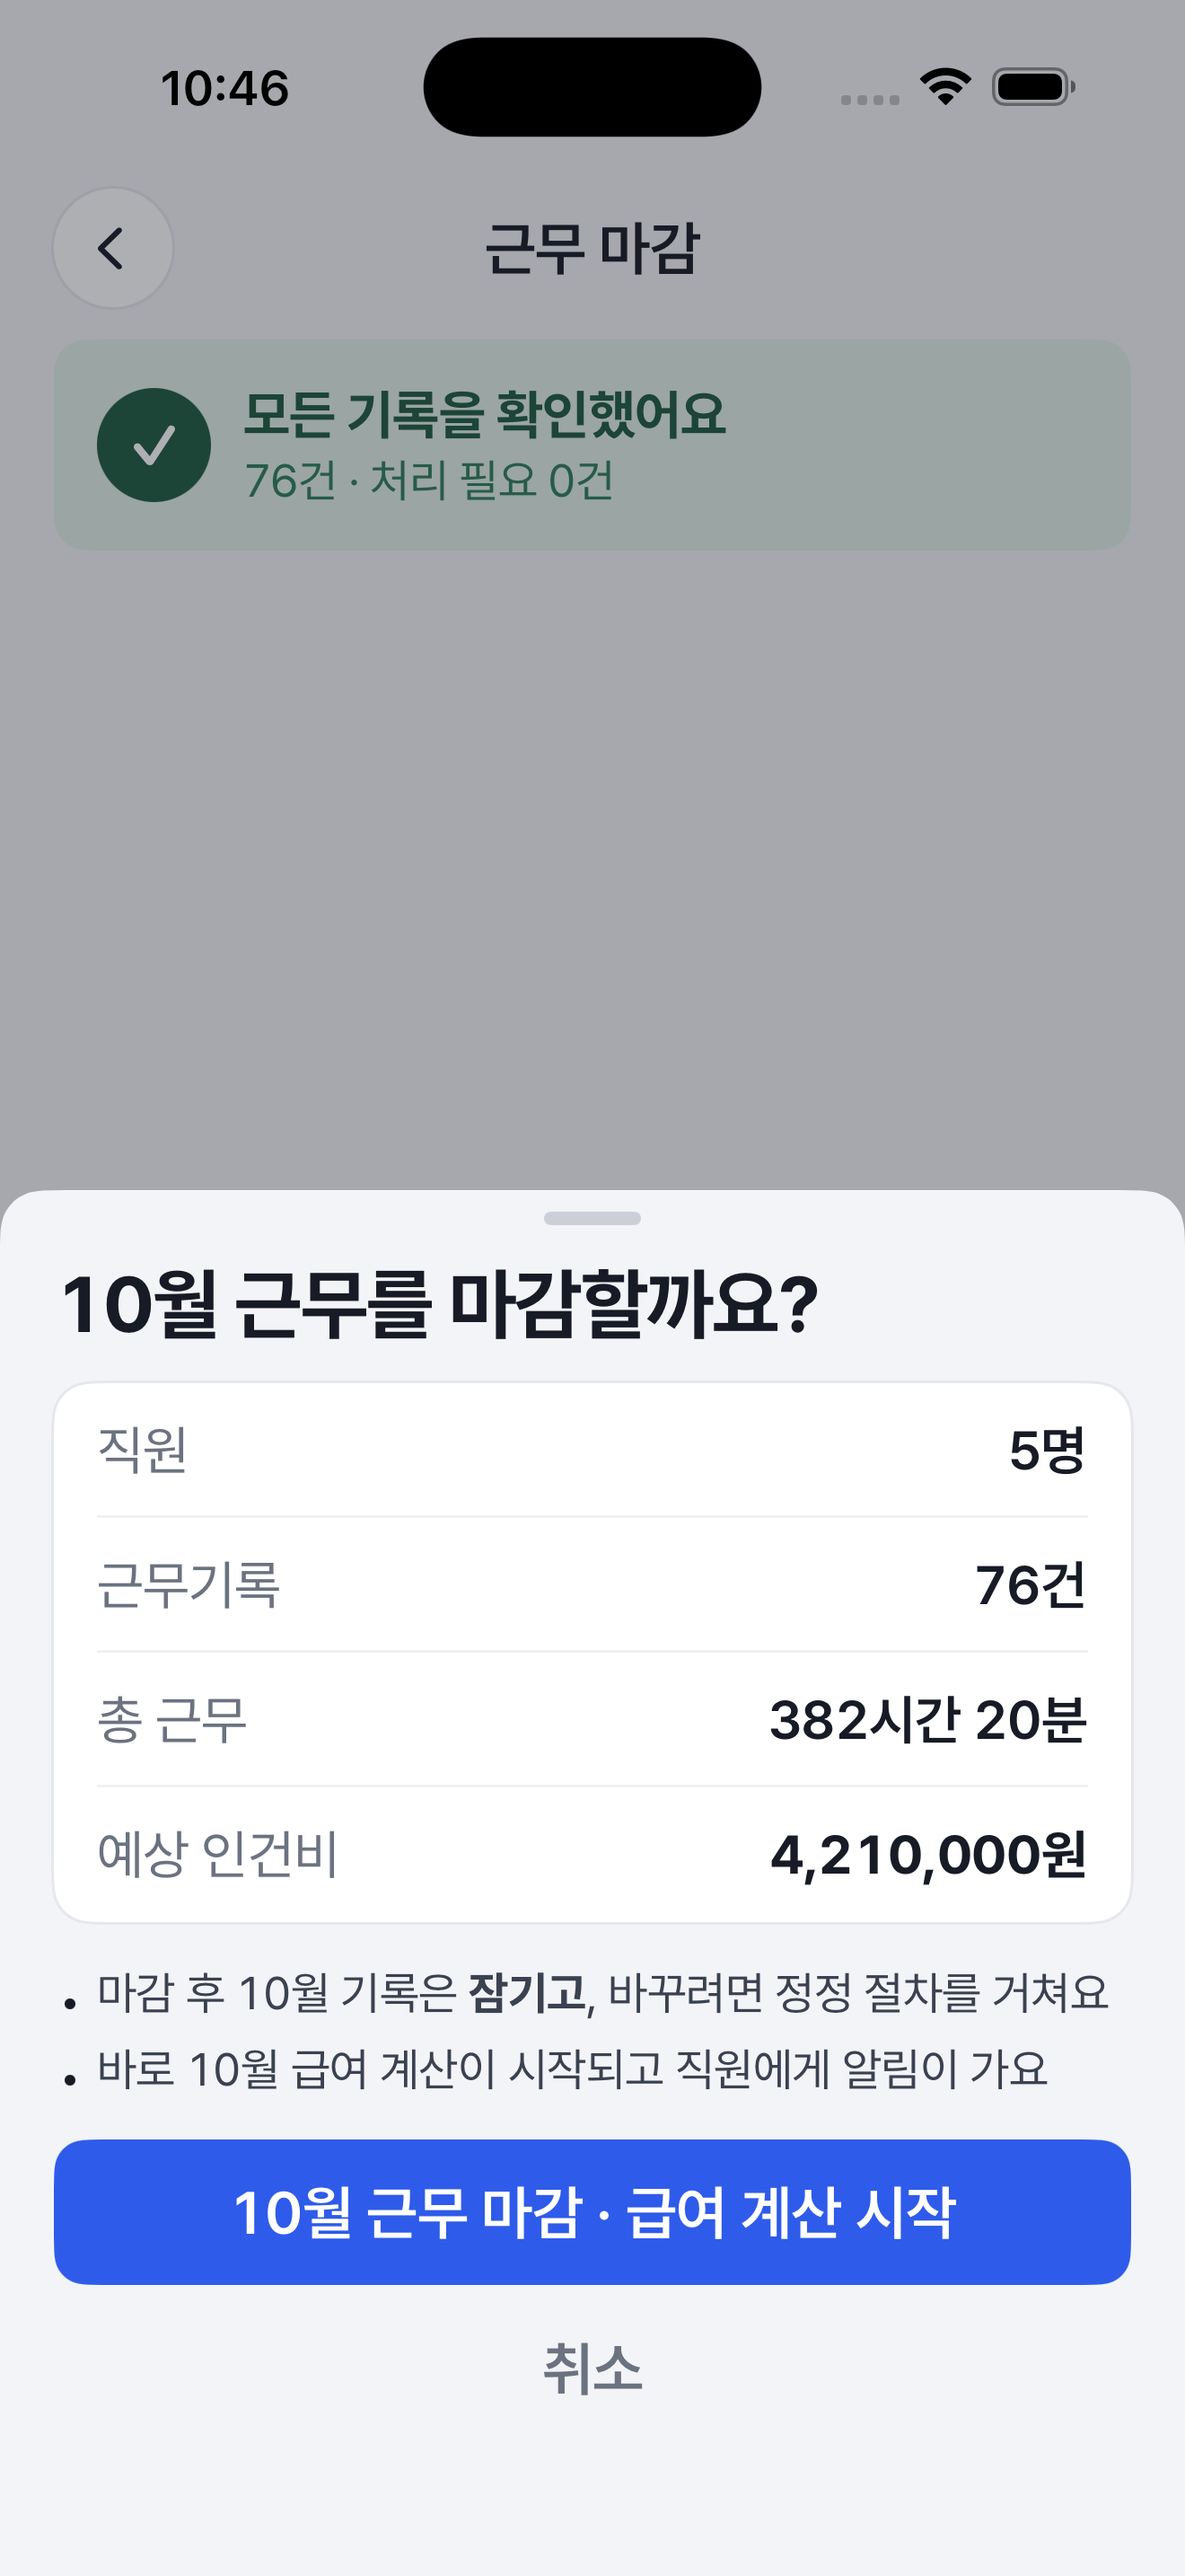
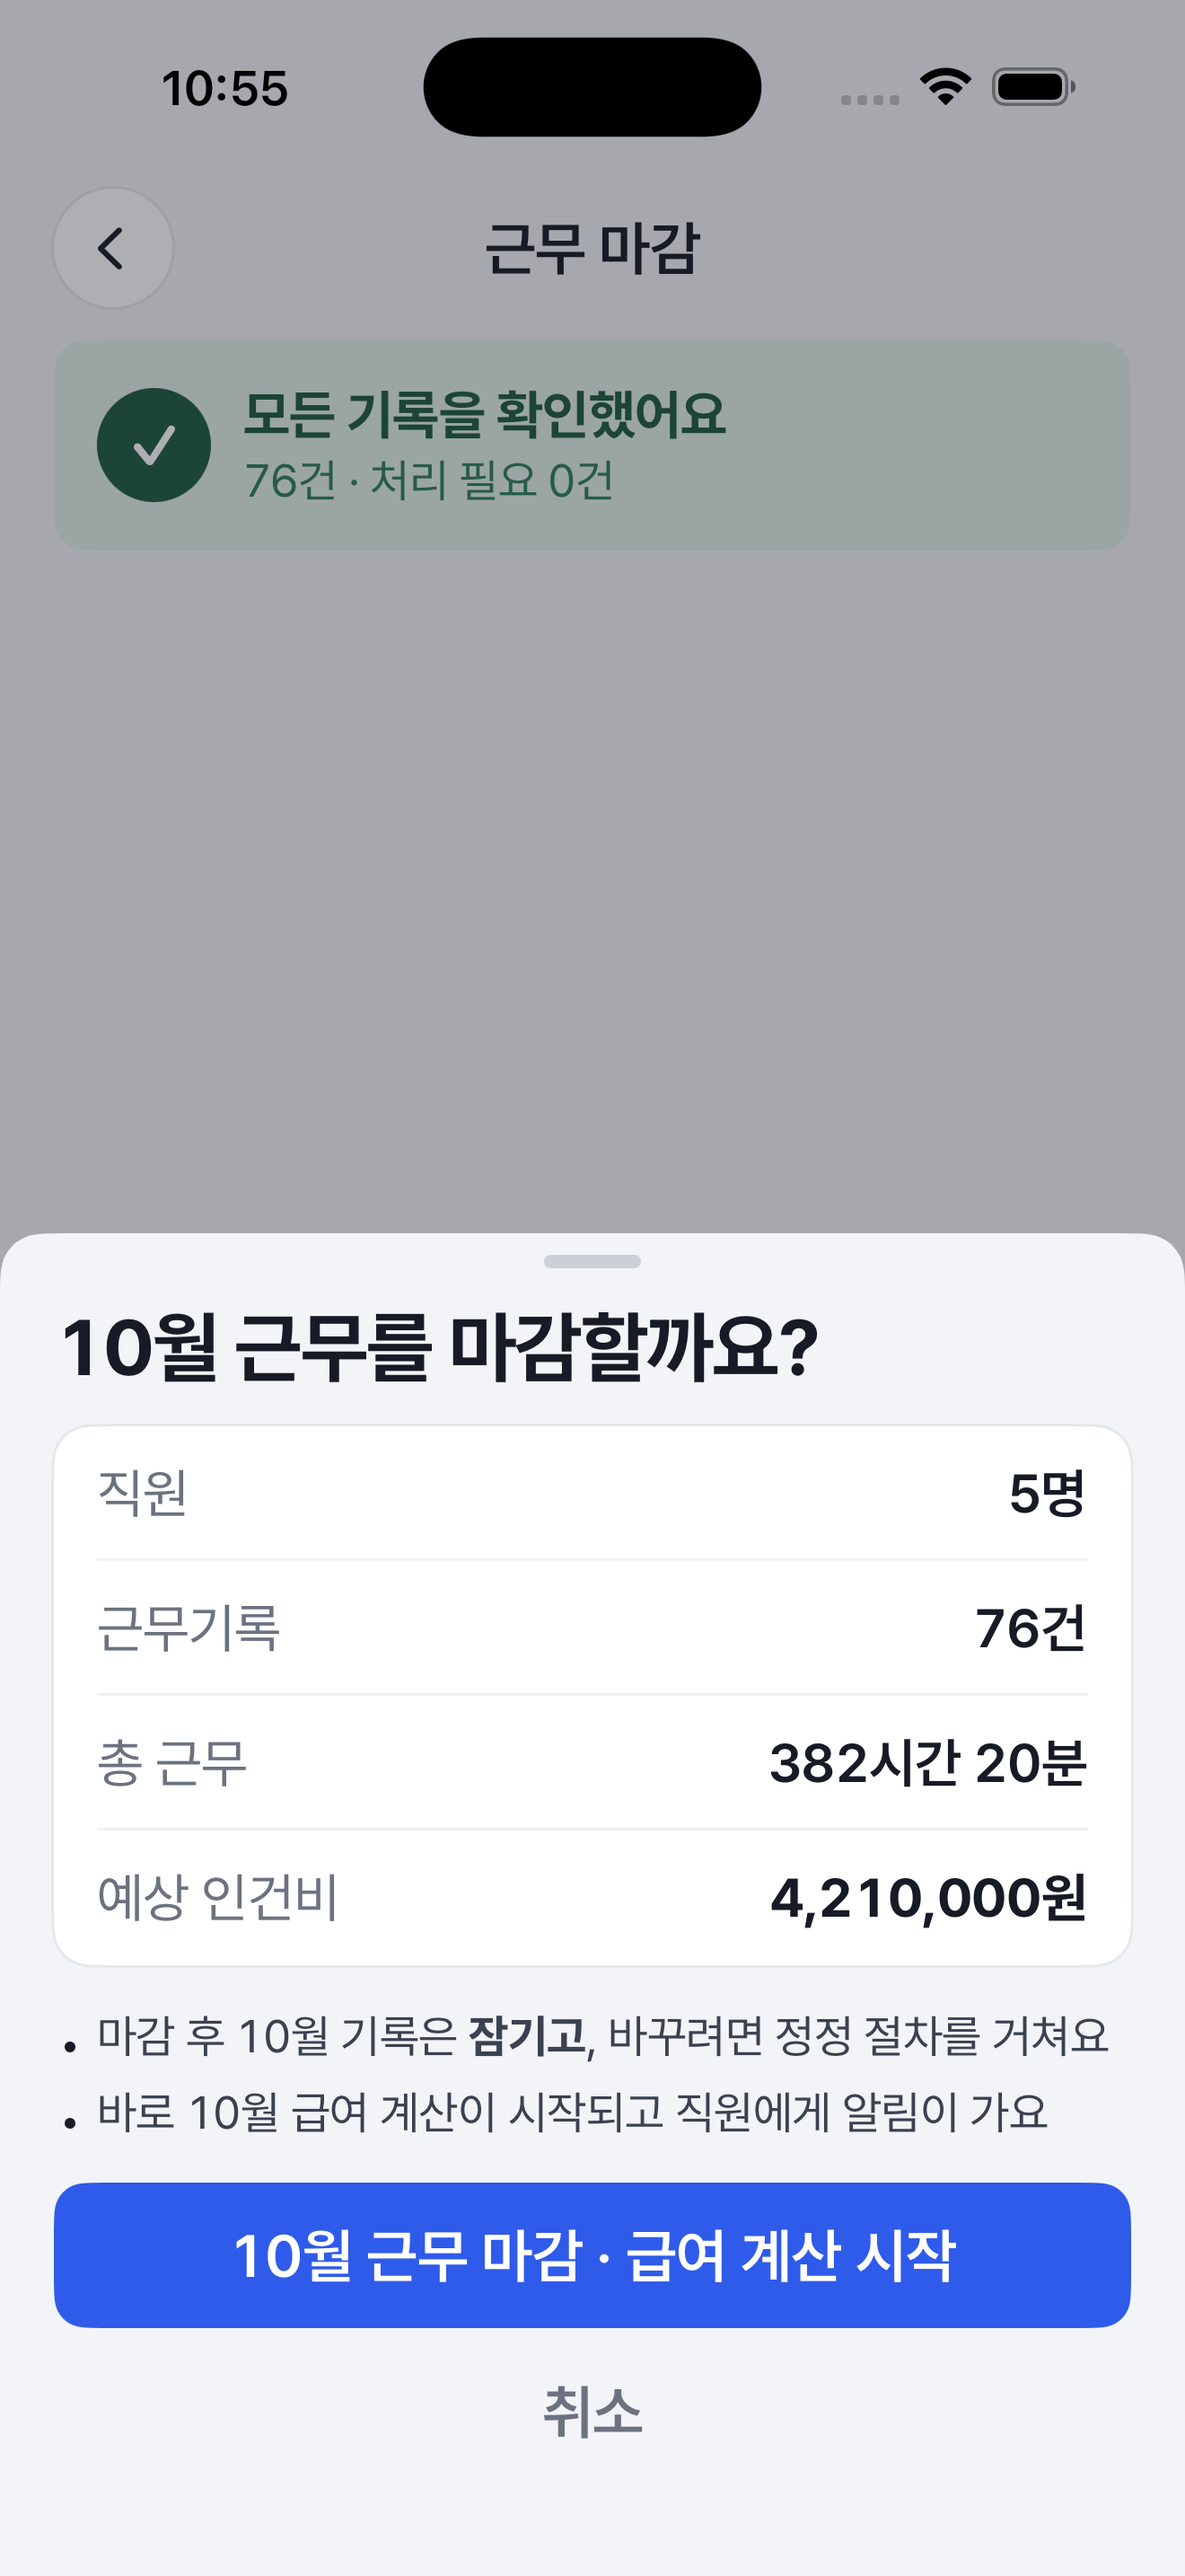
fix(payroll): 근무 마감 확인(8c) 처리 필요 남으면 마감 막기 · 닫기 차단 테스트 · 하단 여백
처리 필요가 남으면 마감 버튼 비활성 · 보내지 않음(8a와 같은 규칙).
마감 중 시트 닫기 규칙을 순수 함수로 빼 테스트. 취소 아래 여분 여백 제거.

Refs #197 · UI-IOS-8c

Changed region(s): [[0.0, 0.4344, 1.0, 0.962], [0.1864, 0.031, 0.2174, 0.0621]]

diff --git a/Pum/Pum/Features/Payroll/WorkClosingConfirm/WorkClosingConfirmView.swift b/Pum/Pum/Features/Payroll/WorkClosingConfirm/WorkClosingConfirmView.swift
@@ -35,7 +35,7 @@ struct WorkClosingConfirmView: View {
     /// 처리 중에는 막 누름 · 두 손가락 닫기로 닫히지 않게 한다
     private var guardedOpen: Binding<Bool> {
         Binding(get: { sheetOpen }, set: { newValue in
-            if newValue || !isClosing { sheetOpen = newValue }
+            if WorkClosingConfirmState.allowsSheetChange(to: newValue, isClosing: isClosing) { sheetOpen = newValue }
         })
     }
 
@@ -90,14 +90,13 @@ struct WorkClosingConfirmView: View {
             .padding(.top, PumTokens.Space.s4)
             VStack(spacing: PumTokens.Space.s4) {
                 PumButton(title: state.confirmTitle, kind: .primary, isLoading: isClosing, loadingTitle: "마감하는 중", action: confirm)
-                    .disabled(isClosing)
+                    .disabled(isClosing || !state.canClose)
                 PumButton(title: "취소", kind: .text, action: cancel)
                     .disabled(isClosing)
             }
             .padding(.top, PumTokens.Space.s4)
         }
         .padding(.horizontal, PumTokens.Size.screenPad)
-        .padding(.bottom, PumTokens.Space.s16)
     }
 
     private var summaryCard: some View {
@@ -160,7 +159,7 @@ struct WorkClosingConfirmView: View {
 
     /// 한 번만 — 누르는 즉시 잠그고, 실패일 때만 푼다
     private func confirm() {
-        guard lock.begin(canClose: true) else { return }
+        guard lock.begin(canClose: state.canClose) else { return }
         onConfirm { success in lock.finish(success: success) }
     }
 

diff --git a/Pum/Pum/Features/Payroll/WorkClosingConfirm/WorkClosingConfirmState.swift b/Pum/Pum/Features/Payroll/WorkClosingConfirm/WorkClosingConfirmState.swift
@@ -10,6 +10,11 @@ nonisolated struct WorkClosingConfirmState: Equatable, Sendable {
     var expectedLaborCost: Int     // 서버가 준 예상 인건비(원)
     var problemCount: Int          // 뒤 화면 카드용 — 처리 필요 건수
 
+    /// 처리 필요가 남았으면 마감하지 않는다(8a와 같은 규칙, 서버가 다시 확인)
+    var canClose: Bool { problemCount == 0 }
+    /// 시트 열림 바꾸기 허용 — 마감 처리 중에는 닫기(막 누름 · 두 손가락 · 취소)를 무시한다
+    static func allowsSheetChange(to open: Bool, isClosing: Bool) -> Bool { open || !isClosing }
+
     var sheetTitle: String { "\(month)월 근무를 마감할까요?" }
     var employeeText: String { "\(employeeCount)명" }
     var recordText: String { "\(recordCount)건" }

diff --git a/Pum/PumTests/Features/Payroll/WorkClosingConfirmTests.swift b/Pum/PumTests/Features/Payroll/WorkClosingConfirmTests.swift
@@ -45,4 +45,17 @@ struct WorkClosingConfirmTests {
         let again = lock.begin(canClose: true)
         #expect(again)
     }
+
+    @Test func 처리_필요가_남으면_마감_안_함() {
+        var s = WorkClosingConfirmState.sample
+        #expect(s.canClose)
+        s.problemCount = 3
+        #expect(!s.canClose)
+    }
+
+    @Test func 마감_중에는_시트가_닫히지_않는다() {
+        #expect(!WorkClosingConfirmState.allowsSheetChange(to: false, isClosing: true))
+        #expect(WorkClosingConfirmState.allowsSheetChange(to: false, isClosing: false))
+        #expect(WorkClosingConfirmState.allowsSheetChange(to: true, isClosing: true))
+    }
 }

diff --git a/docs/design/compare/screens/README.md b/docs/design/compare/screens/README.md
@@ -735,5 +735,6 @@
 | 배치 · 문구 | 뒤: 근무 마감 · 모든 기록을 확인했어요 · 76건 · 처리 필요 0건 / 시트: 10월 근무를 마감할까요? · 키–값 4행 · 점 목록 두 줄(「잠기고」 굵게) · 10월 근무 마감 · 급여 계산 시작 · 취소 | 같음(C9 바텀시트) | 일치 |
 | 뒤 카드 초록 원 | 약 32 | s24 + s8 | 일치 |
 | 점 목록 줄 간격 | 약 27 | 약 24 | 근사 |
+| 처리 필요가 남은 상태 | 원문 없음 | 마감 버튼 비활성 · 보내지 않음(8a와 같은 규칙) | 구현 기준 |
 | 마감 중 | — | 주 버튼 · 취소 비활성, 막 누름 · VoiceOver 닫기 무시, 실패일 때만 풀림(WorkClosingLock) | 구현 기준 |
 | 뒤 화면 | 8a의 처리 0건 상태와 모양이 다름(초록 카드) | 원문대로 별도 그림 — 8a 0건 화면은 원문 없음 | 기록 |
